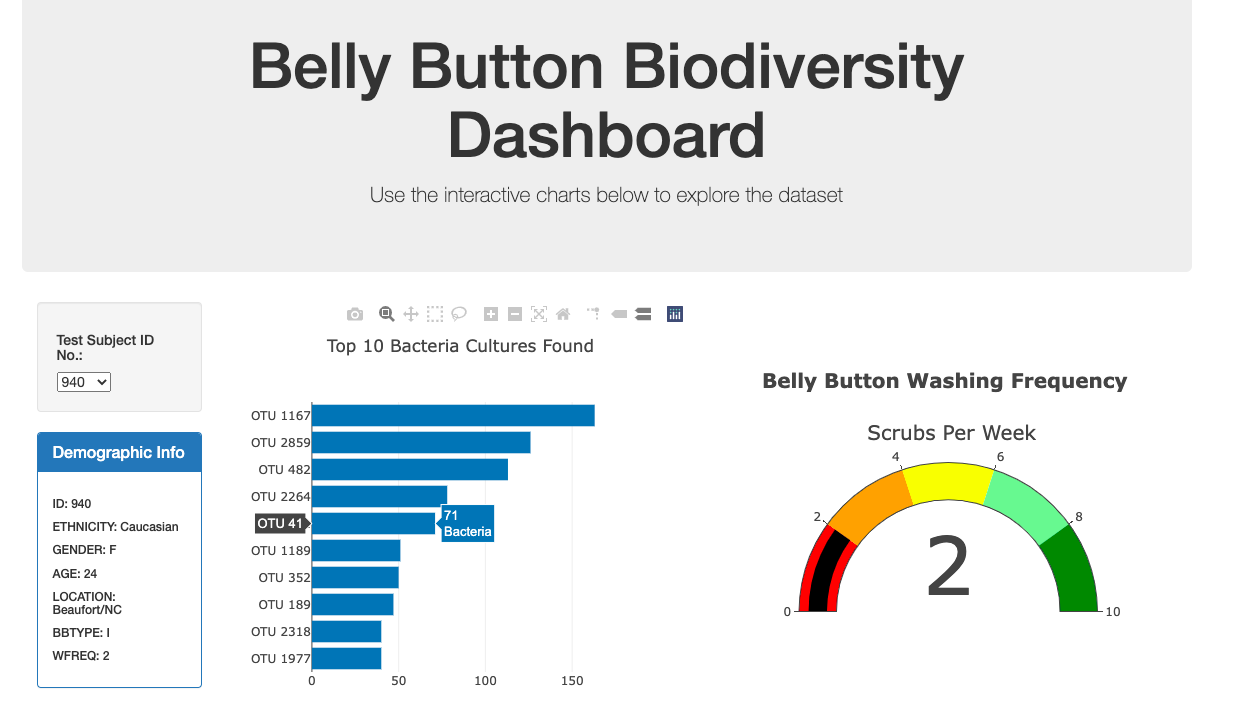
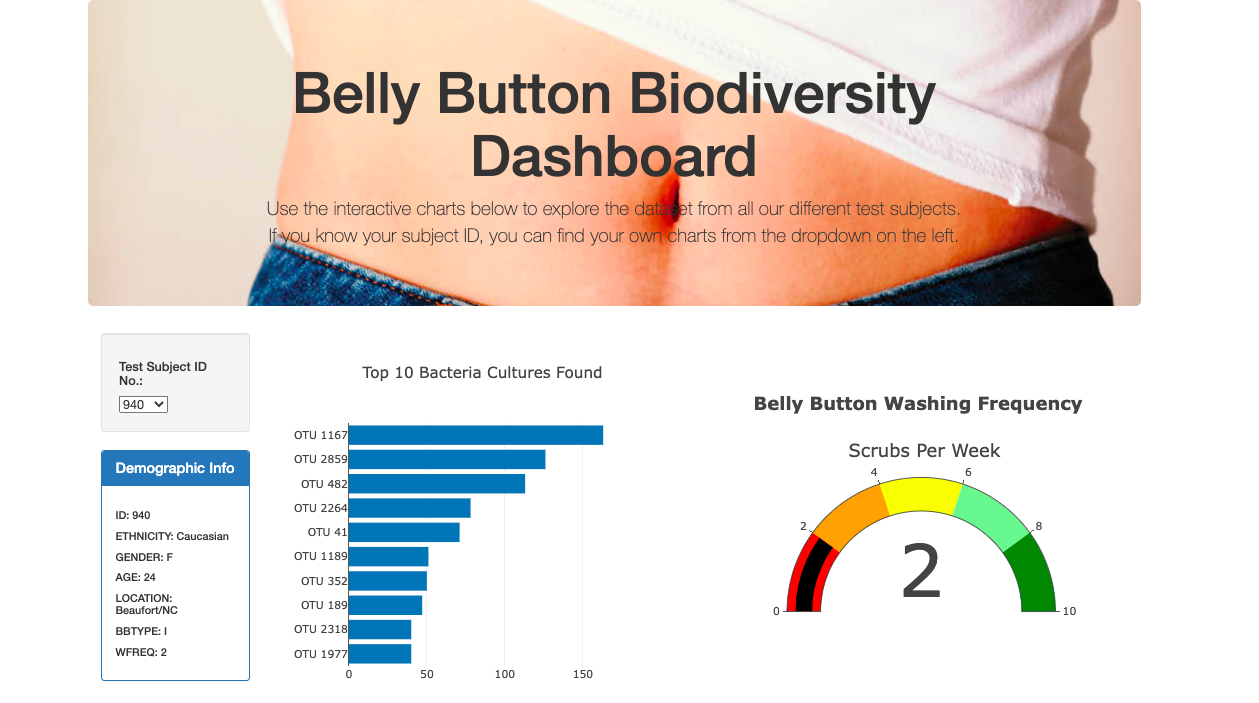
jumbotron customisation

diff --git a/index.html b/index.html
@@ -3,10 +3,15 @@
 
 <head>
   <meta charset="UTF-8">
-  <meta name="viewport" content="width=device-width, initial-scale=1.0">
+  <meta name="viewport" content="width=device-width, initial-scale=1, maximum-scale=1, user-scalable=no">
   <meta http-equiv="X-UA-Compatible" content="ie=edge">
   <title>Bellybutton Biodiversity</title>
   <link rel="stylesheet" href="https://maxcdn.bootstrapcdn.com/bootstrap/3.3.7/css/bootstrap.min.css">
+  <style>
+        .jumbotron{
+            background: url("https://www.dictionary.com/e/wp-content/uploads/2010/07/1000x700_belly_button_jpg_XjWlS09V.jpg") center center / cover no-repeat;
+        }
+</style>
 </head>
 
 <body>
@@ -15,9 +20,10 @@
     <div class="row">
       <div class="col-md-12 jumbotron text-center">
         <h1>Belly Button Biodiversity Dashboard</h1>
-        <p>Use the interactive charts below to explore the dataset</p>
+        <p>Use the interactive charts below to explore the dataset from all our different test subjects. <br> If you know your subject ID, you can find your own charts from the dropdown on the left.</p>
       </div>
     </div>
+
     <div class="row">
       <div class="col-md-2">
         <div class="well">

diff --git a/README.md b/README.md
@@ -74,7 +74,7 @@ Data is clean.
 Some of the dataset have null values.
 
 #### 7. Acknowledging Limitations
-Some of the null values in wfreqs will cause the gauge chart to show " - ". Using isNaN function to make these null values to 0 for better visualisation. However, this might get mistaken as zero value by some users. 
+Some of the null values in wfreqs will cause the gauge chart to show " - ". Using isNaN function to make these null values to 0 for better visualisation. However, this might get mistaken as zero value by some users.
 
 #### 8. Making the Call:
 The "Proper" Conclusion is indicated below on [Summary](#summary)
@@ -91,6 +91,27 @@ The hosted site is available at: https://suyinwb.github.io/Plotly_Deployment/
 >Bubble Chart
 
 ![Bubble Chart](resources/bubble_chart.png)
+
+# ## DELIVERABLES 4: HTML and Bootstrap to customize the webpage
+
+1. Mobile responsive
+```
+<meta name="viewport" content="width=device-width, initial-scale=1, maximum-scale=1, user-scalable=no">
+```
+
+2. Add more information so users know how to use the dropdown menu
+
+"Use the interactive charts below to explore the dataset from all our different test subjects.
+If you know your subject ID, you can find your own charts from the dropdown on the left.""
+
+3. Changed Jumbotron background to a photo of a belly button
+```
+<style>
+      .jumbotron{
+          background: url("https://www.dictionary.com/e/wp-content/uploads/2010/07/1000x700_belly_button_jpg_XjWlS09V.jpg") center center / cover no-repeat;
+      }
+</style>
+```
 
 ## Summary
 Using Git Pages, we are able to host the dashboard so it can be used publicly.
